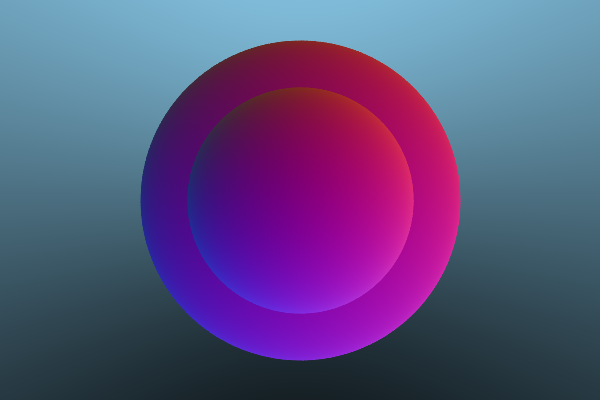
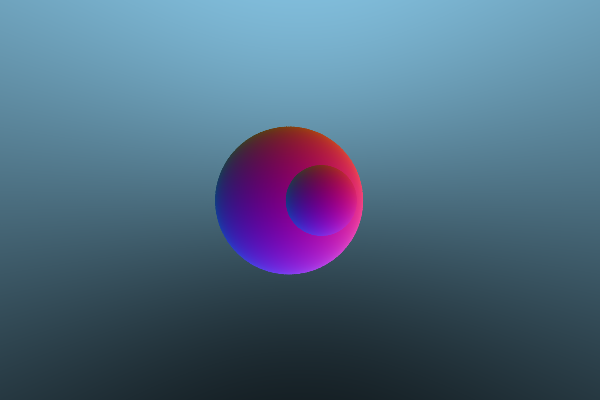
Add Entity base class & refactor code
Now the program supports multiple objects and the order you add them to
the world does not matter anymore.

diff --git a/src/main.cpp b/src/main.cpp
@@ -8,6 +8,7 @@
 #include <cstdio>
 #include <cstdlib>
 #include <random>
+#include <limits>
 
 #define WIDTH 600
 #define HEIGHT 400
@@ -17,22 +18,23 @@
 World world;
 
 vec3 getColor(Ray& ray) {
-    for (Sphere sphere : world.spheres) {
-        if (sphere.hit(ray)) {
-            vec3 intersectionPoint = ray.origin + ray.hits.t_min * ray.direction;
-            vec3 normal = glm::normalize(intersectionPoint - sphere.center);
-
-            // Map to [0, 1] and multiply by 255 to get a color
-            vec3 normalColor = (normal + float(1.0)) / float(2.0) * float(255.0);
-            return normalColor;
-        }
-    }
     // Return sky color if no intersection with any objects is found
     // This is the formula for the cosine of the two angles, so we have to map
     // it to the range [0, 1].
     float angleWithHorizon = glm::dot(ray.direction, vec3(0, 0, 1)) / glm::length(ray.direction);
     angleWithHorizon = (-angleWithHorizon + 1) / 2.0;
-    return vec3(150, 220, 255) * angleWithHorizon;
+    vec3 color = vec3(150, 220, 255) * angleWithHorizon;
+
+    float t_min = std::numeric_limits<float>::infinity();
+    for (std::unique_ptr<Entity> &entity : world.entities) {
+        if (entity->hit(ray)) {
+            if (ray.hits.t_min <= t_min) {
+                t_min = ray.hits.t_min;
+                color = ray.color;
+            }
+        }
+    }
+    return color;
 }
 
 // TODO: Add argument for file name
@@ -49,8 +51,8 @@ int main() {
 
     // Setup world
     // TODO: Fix having to put these in order
-    world.spheres.push_back(Sphere(vec3(0, 1, 0), 0.5));
-    world.spheres.push_back(Sphere(vec3(0, 4, 0), 2.5));
+    world.entities.emplace_back(new Sphere(vec3(-0.1, 2, 0), 0.7));
+    world.entities.emplace_back(new Sphere(vec3(0.1, 1, 0), 0.2));
 
     // Calculate the size of one pixel
     float horizontalSize = 1.0 / (WIDTH);

diff --git a/src/Sphere.cpp b/src/Sphere.cpp
@@ -1,0 +1,30 @@
+#include "Sphere.h"
+
+Sphere::Sphere(vec3 cen, float rad) {
+            center = cen;
+            radius = rad;
+        }
+
+bool Sphere::hit(Ray& ray) {
+            // h = b/2
+            float a, h, c;
+            a = glm::dot(ray.direction, ray.direction);
+            h = glm::dot(ray.direction, (ray.origin - center));
+            c = glm::dot((ray.origin - center), (ray.origin - center)) - radius * radius;
+        
+            float determinant = h * h - a * c;
+            // We compare to 0.01 to account for errors made by floating point
+            // operations
+            if (determinant > 0.01) {
+                // We will get the shortest t for now
+                float t1 = (-h - sqrt(determinant)) / a;
+                float t2 = (-h + sqrt(determinant)) / a;
+                ray.hits.t_min = t1 < t2 ? t1 : t2;
+                ray.hits.intersection = ray.origin + ray.hits.t_min * ray.direction;
+                ray.hits.normal = glm::normalize(ray.hits.intersection - center);
+                // Map to [0, 1] and multiply by 255 to get a color
+                ray.color = (ray.hits.normal + float(1.0)) / float(2.0) * float(255.0);
+                return true;
+            }
+            return false;
+        }

diff --git a/src/Sphere.h b/src/Sphere.h
@@ -1,36 +1,16 @@
 #pragma once
 #include "glm/glm.hpp"
 #include "Ray.h"
+#include "Entity.h"
 
 using glm::vec3;
 
-class Sphere {
+class Sphere : public Entity{
     public:
         Sphere();
-        Sphere(vec3 cen, float rad) {
-            center = cen;
-            radius = rad;
-        }
+        Sphere(vec3 cen, float rad);
 
-        bool hit(Ray& ray) {        
-            // h = b/2
-            float a, h, c;
-            a = glm::dot(ray.direction, ray.direction);
-            h = glm::dot(ray.direction, (ray.origin - center));
-            c = glm::dot((ray.origin - center), (ray.origin - center)) - radius * radius;
-        
-            float determinant = h * h - a * c;
-            // We compare to 0.01 to account for errors made by floating point
-            // operations
-            if (determinant > 0.01) {
-                // We will get the shortest t for now
-                float t1 = (-h - sqrt(determinant)) / a;
-                float t2 = (-h + sqrt(determinant)) / a;
-                ray.hits.t_min = t1 < t2 ? t1 : t2;
-                return true;
-            }
-            return false;
-        }
+        virtual bool hit(Ray& ray) override;
 
     public:
         vec3 center;

diff --git a/src/World.h b/src/World.h
@@ -1,11 +1,12 @@
 #pragma once
 #include "glm/glm.hpp"
-#include "Sphere.h"
+#include "Entity.h"
 #include <vector>
+#include <memory>
 
 using glm::vec3;
 
 struct World {
     vec3 skyColor;
-    std::vector<Sphere> spheres; 
+    std::vector<std::unique_ptr<Entity>> entities; 
 };

diff --git a/src/Ray.h b/src/Ray.h
@@ -6,9 +6,12 @@ using glm::vec3;
 
 struct Hits {
     float t_min;
+    vec3 normal;
+    vec3 intersection;
 };
 
 struct Ray {
+    vec3 color;
     vec3 origin;
     vec3 direction;
     Hits hits;

diff --git a/src/Entity.h b/src/Entity.h
@@ -1,0 +1,12 @@
+#pragma once
+#include "glm/glm.hpp"
+#include "Ray.h"
+
+using glm::vec3;
+
+class Entity {
+    public:
+        Entity() {};
+
+        virtual bool hit(Ray& ray) {};
+};
